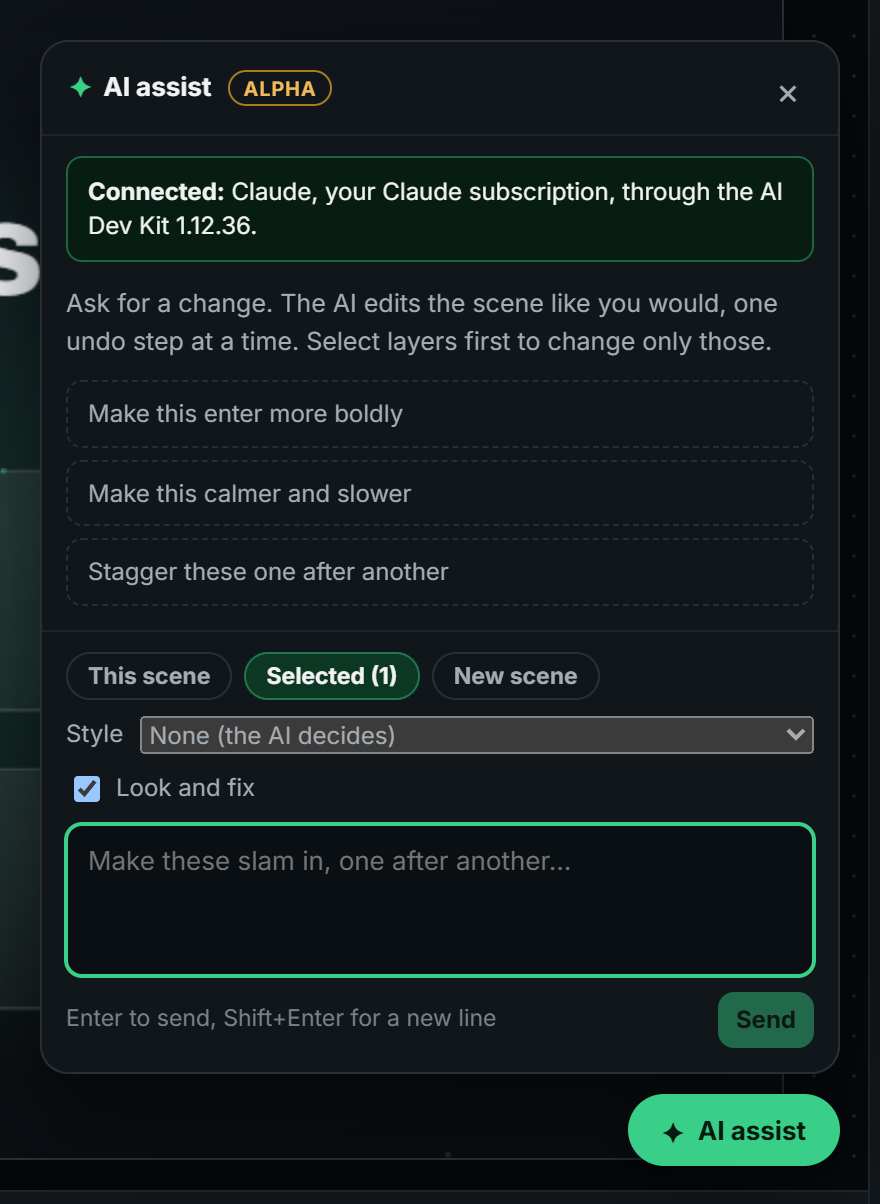
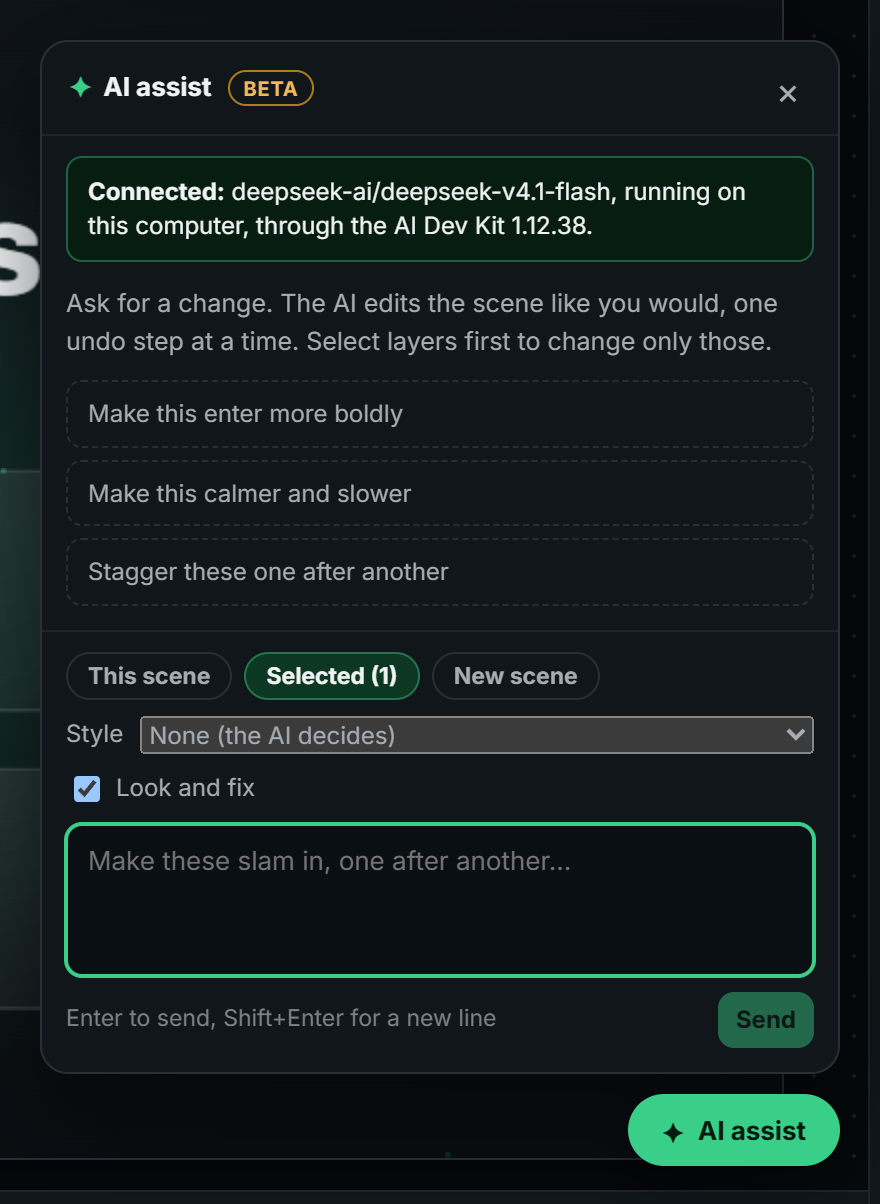
Kinetic Scenes: Beta, brand kits, more sounds, MCP setup, presets on your pages; roadmap updated

Changed region(s): [[0.092, 0.1537, 0.8898, 0.2151], [0.2761, 0.0615, 0.3682, 0.0922]]

diff --git a/kinetic-scenes/on-your-pages.md b/kinetic-scenes/on-your-pages.md
@@ -1,0 +1,65 @@
+---
+sidebar_position: 12
+title: Presets on your pages
+description: Use Kinetic Scenes presets (Rise, Slam, Gravity drop, Strike, Jiggle and more) on ordinary page elements in Unyson+, with the Animation Engine's Kinetic Scenes Preset.
+---
+
+# Presets on your pages
+
+A Kinetic Scenes preset doesn't have to live inside a scene. The Animation Engine's **Kinetic Scenes Preset** plays the
+Studio's presets on the ordinary elements of a page: a heading, a paragraph, a picture, a button. It uses the same
+player as the Kinetic Scene element, so an effect looks the same on a page as it does in the Studio, and you only build
+it once.
+
+## Adding one
+
+1. Turn on the **Animation Engine** extension (Unyson+ → Extensions).
+2. Open an element in the page builder and go to its **Animations** tab.
+3. Under **Kinetic Scenes Preset**, pick a group: **Text**, **Reveal**, **Move** or **Emphasis**.
+4. Pick the preset and when it plays.
+
+| Setting | What it does |
+|---|---|
+| **Preset** | The animation. The menu lists the presets that work on a single element (39 of them). |
+| **Plays** | When it scrolls into view (a quarter on screen), when the page loads, on hover or on click. |
+| **Direction** | **In** brings the element in; **Out** takes it away (for presets that have both). |
+| **Length (s)** | 0 uses the preset's own length. |
+| **Delay (s)** | Wait before it starts, for example to follow another element. |
+| **Replay** | Play again each time the element comes back into view, or on every hover or click. |
+| **Settings (advanced)** | The preset's own settings as JSON, the same names as in the Studio, e.g. `{"by": "words"}` or `{"from": "left"}`. See [Presets](./presets.md) for each preset's settings. |
+
+## What works where
+
+- **Text presets** (Rise, Slam, Drop, Type, Flip, Count…) split the element's words and letters, like a text layer in a
+  scene. Use them on headings and short text. The words stay readable to screen readers and search engines.
+- **Reveal, Move and Emphasis presets** work on any element: a picture, a card, a button, a whole column.
+- Presets that need a scene are not offered: ones that work with another layer, keyframes, a picture's pixels, sound or
+  the scene's camera.
+
+## Good to know
+
+- **Reduced motion.** Visitors who ask for less motion see the element as it is, without the animation (unless the
+  Animation Engine's reduced-motion setting is turned off).
+- **Loaded only when used.** The small runtime and the player load only on pages that use a preset, and a page that also
+  has a Kinetic Scene element shares one copy of the player.
+- **Entrances start hidden.** An entrance set to play in view keeps the element at its starting point (often invisible)
+  until it plays, so it does not flash first.
+
+## For developers
+
+The player exposes the same thing to your own code:
+
+```js
+const run = UnysonPlusScene.playPreset(document.querySelector('h1'), 'text-rise', {
+  duration: 0.9,           // seconds (default: the preset's own)
+  delay: 0.2,
+  params: { by: 'words' }, // the preset's settings
+  autoplay: false,         // then call run.play()
+});
+run.play();   // play (again)
+run.reset();  // back to the start
+run.destroy();// stop and put the element back as it was
+```
+
+Load the player from the Studio (`https://kinetic-scenes.unysonplus.com/player/0.0.42/scene-player.js`, with
+`data-auto-mount="false"` on the script tag if the page has no scenes). Custom-code clips only run inside scenes.

diff --git a/kinetic-scenes/ai.md b/kinetic-scenes/ai.md
@@ -98,12 +98,31 @@ node studio-cli.mjs beats music.mp3           # tempo, beats and the strongest m
 node studio-cli.mjs transcribe voice.mp3      # every word with its time
 ```
 
-Add `--json` for machine-readable output. The same six are a local MCP server, so the agent calls them as tools
-(`scene_stills` returns the frames as images it can look at):
+Add `--json` for machine-readable output. The same tools are a local MCP server, so the agent calls them as tools
+(`scene_stills` returns the frames as images it can look at). The server adds three more: `scene_guide` (the scene
+format and the presets, so the AI writes valid scenes), `scene_link` (a Studio link that opens the scene in the
+browser) and `scene_save` (writes a scene to a file). Every scene tool takes either a file path or the scene itself, so an
+app without file access can still use them:
 
 ```bash
 claude mcp add kinetic-scenes -- node <kit>/assembled/UnysonPlus-Capture-Service/tools/design-capture/studio-mcp.mjs
 ```
+
+In **Claude Desktop** (or any MCP app), add the server to its MCP settings (`claude_desktop_config.json`):
+
+```json
+{
+  "mcpServers": {
+    "kinetic-scenes": {
+      "command": "node",
+      "args": ["<kit>/assembled/UnysonPlus-Capture-Service/tools/design-capture/studio-mcp.mjs"]
+    }
+  }
+}
+```
+
+Then ask for a scene in the conversation: it reads the guide, writes the scene, checks it, looks at the stills and gives
+you a link that opens it in the Studio.
 
 ## An AI inside the open Studio
 

diff --git a/kinetic-scenes/sound.md b/kinetic-scenes/sound.md
@@ -45,6 +45,18 @@ or on its last frame for a landing, and moves with the clip whenever you move or
   a typewriter typing), about one every second and a half at most, so sound supports the motion instead of piling up.
 - With no clip selected, **Add** puts the sound on the audio rows at the playhead, like a sound file.
 
+### More sounds
+
+With the search box empty, the bottom of the Sounds tab offers two more ways to get a sound. Both run through the
+[AI Dev Kit](/ai-dev-kit), so it needs to be running.
+
+- **Make a sound.** Describe it ("a soft paper swoosh, 0.6 s") and click **Make**. With an ElevenLabs key in the kit, the
+  sound is generated; otherwise the AI writes a synth recipe (oscillators, noise, a filter and envelopes) that the Studio
+  renders into a WAV right in the browser. The result is added at the playhead as a sound effect.
+- **Search Freesound.** Paste your free Freesound API key once, then search its public-domain (CC0) sounds: no credit
+  needed, free to use anywhere. Click a result to hear it and **Add** to put it at the playhead. Sounds you use are cached
+  on your computer.
+
 ## Music and the beat
 
 Select a music clip and **Find the beats**: the Studio works out the tempo, the beat grid and how strong each beat is, right

diff --git a/kinetic-scenes/stage.md b/kinetic-scenes/stage.md
@@ -108,6 +108,18 @@ and shapes enter and leave, and how they ease), a pace and a sound palette. The 
 - **Save this scene as a style:** your colours, fonts, the presets you use for each role and your sounds, kept in this
   browser.
 
+### Brand kits
+
+**Create a brand kit** at the top of the Styles tab makes a style of your own from your brand: a name, your **logo**
+(PNG, SVG, JPG or WebP, up to 1.5 MB), five colours (background, text, secondary text, accent and panels), a display and
+a body font with their weights, whether headlines are in capitals, and which built-in style it **moves like** (its motion
+personality, pace and sounds). A brand card shows a **Brand** tag.
+
+- **New scene** in a brand style starts with your logo on the title card; **Add the logo** puts it on the open scene.
+- **AI assist** uses the logo when it builds a scene in your brand.
+- **Edit** opens the brand kit again; **Export** downloads any style as a `.json` file and **Import a style** reads one, so
+  a team can share the same look.
+
 ## Fonts and background
 
 The scene's **Fonts** settings list the fonts it uses (Google Fonts, by family and stylesheet address); the Export window

diff --git a/kinetic-scenes/export.md b/kinetic-scenes/export.md
@@ -1,5 +1,5 @@
 ---
-sidebar_position: 12
+sidebar_position: 11.5
 title: Export and WordPress
 description: Getting a scene out of Kinetic Scenes — a standalone HTML page, embed code, share links, the Kinetic Scene element in WordPress, and video through the AI Dev Kit or the browser itself.
 ---
